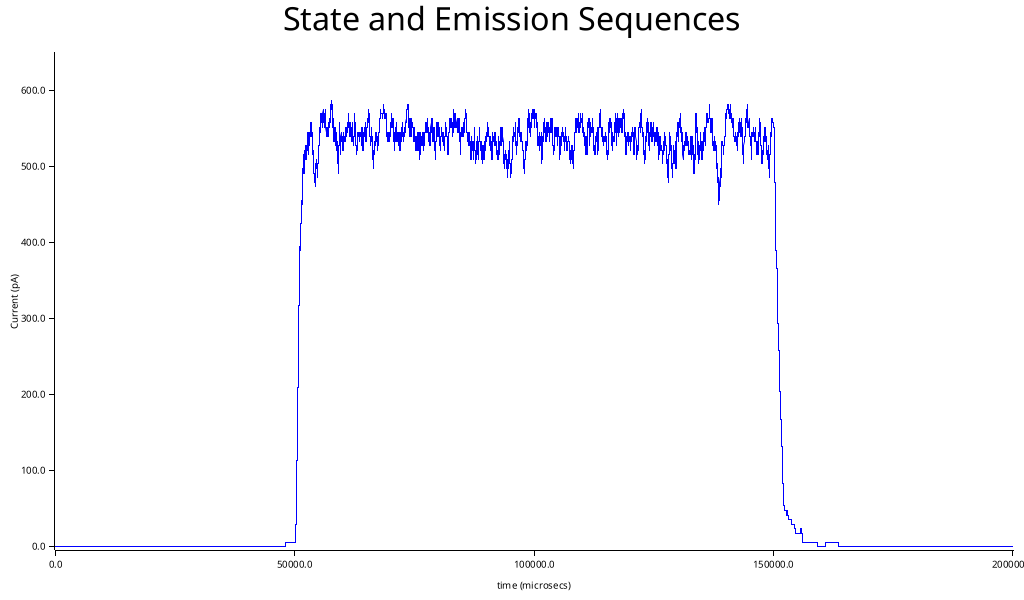
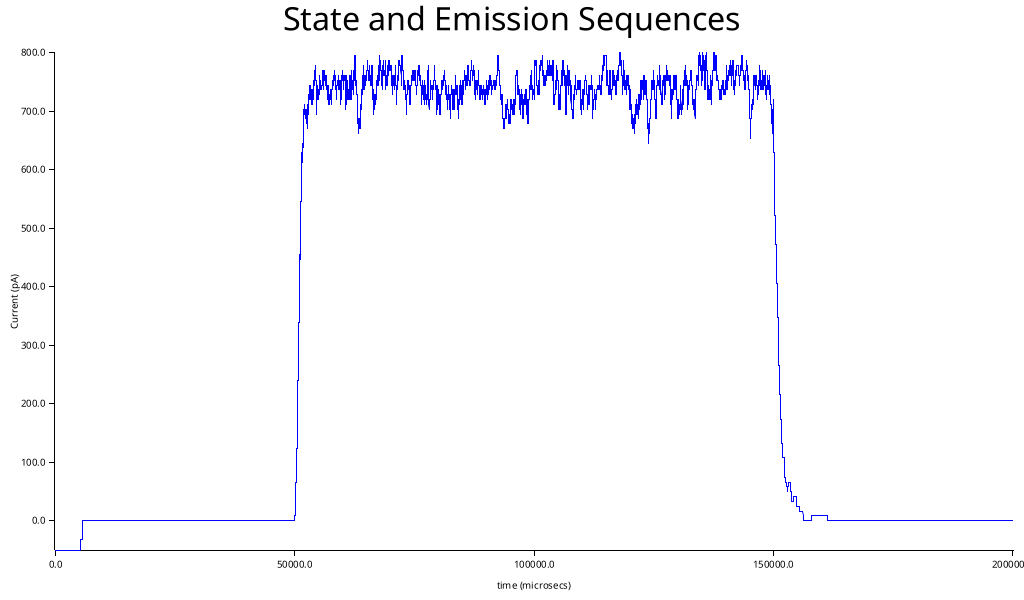
hard coding in potassium params for emissions

diff --git a/src/main.rs b/src/main.rs
@@ -236,12 +236,14 @@ impl Simulation {
                 self.update_probs(self.stimulus[stim_id].1);
                 self.update_trans_matrix();
                 stim_id += 1;
+                // reset for use below, in-case past valid bounds
+                if stim_id == self.stimulus.len() { stim_id -= 1; }
             }
             let mut cum_emis_ts: f32 = 0.0;
             for channel in &mut self.channels {
                 channel.make_transition(&self.trans_matrix);
                 channel.sample_emission(&self.emis_dists);
-                cum_emis_ts += channel.emis;
+                cum_emis_ts -= channel.emis * (self.stimulus[stim_id].1 + 77.0);
             }
             self.cum_emis[ts as usize] = cum_emis_ts;
         }
@@ -277,7 +279,7 @@ fn main() -> Result<(), Box<dyn std::error::Error>> {
         .set_label_area_size(LabelAreaPosition::Left, 45)
         .set_label_area_size(LabelAreaPosition::Bottom, 40)
         .build_cartesian_2d(-50f32..((model_sim.total_time as f32) / model_sim.dt + 50f32),
-                                                -4.0f32..650.0f32)?;
+                                                -50.0f32..800.0f32)?;
 
     chart
         .configure_mesh()
